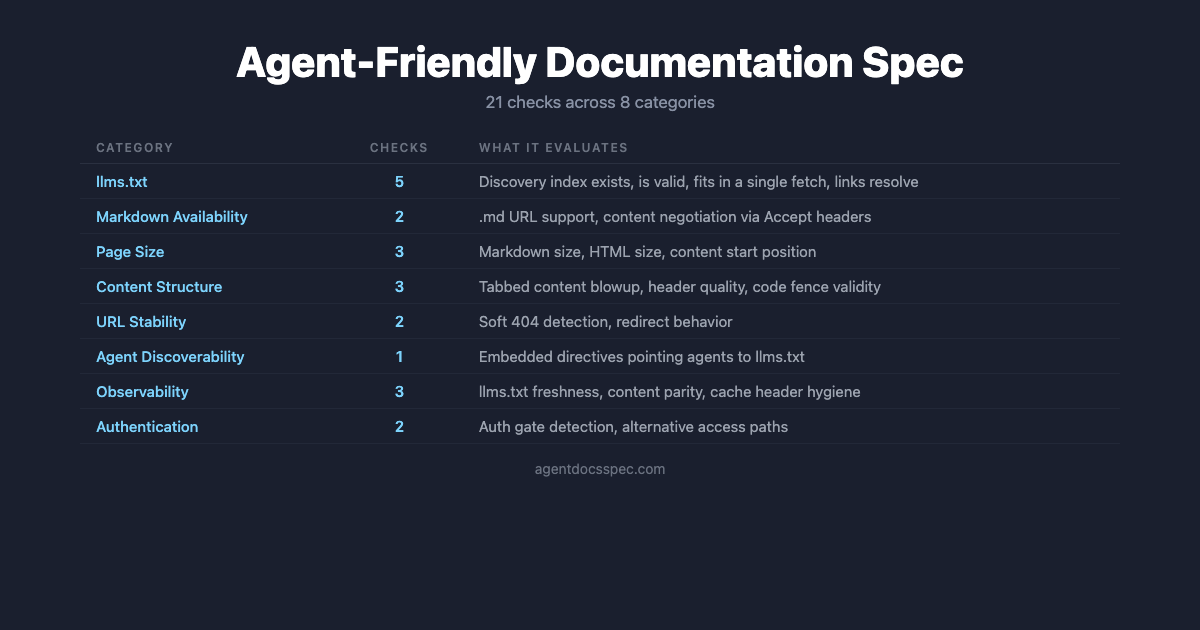
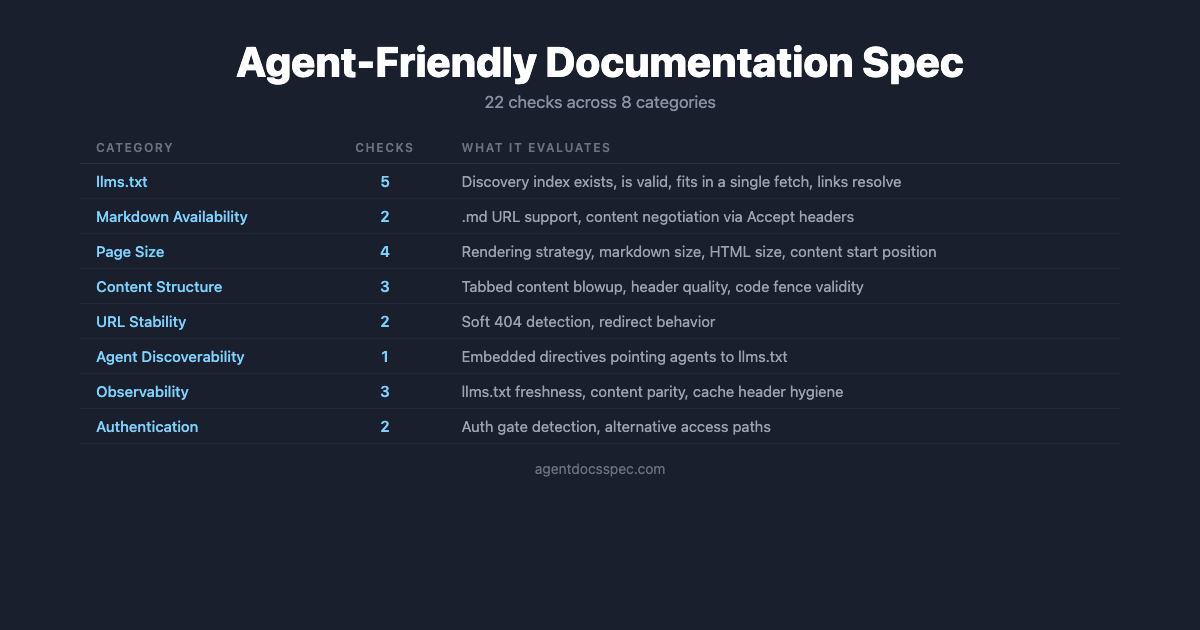
Add 'rendering-strategy' check to spec

diff --git a/site/sharing-image.html b/site/sharing-image.html
@@ -74,7 +74,7 @@
 </head>
 <body>
   <h1>Agent-Friendly Documentation Spec</h1>
-  <p class="subtitle">21 checks across 8 categories</p>
+  <p class="subtitle">22 checks across 8 categories</p>
   <div class="table-wrap">
     <table>
       <thead>
@@ -97,8 +97,8 @@
         </tr>
         <tr>
           <td>Page Size</td>
-          <td>3</td>
-          <td>Markdown size, HTML size, content start position</td>
+          <td>4</td>
+          <td>Rendering strategy, markdown size, HTML size, content start position</td>
         </tr>
         <tr>
           <td>Content Structure</td>

diff --git a/SPEC.md b/SPEC.md
@@ -3,8 +3,8 @@
 |              |                                                              |
 |--------------|--------------------------------------------------------------|
 | **Status**   | Draft                                                        |
-| **Version**  | 0.1.0                                                        |
-| **Date**     | 2026-02-22                                                   |
+| **Version**  | 0.2.0                                                        |
+| **Date**     | 2026-03-15                                                   |
 | **Author**   | Dachary Carey + community contributors                       |
 | **URL**      | https://agentdocsspec.com                                    |
 | **Repository** | https://github.com/agent-ecosystem/agent-docs-spec                |
@@ -15,7 +15,7 @@ Documentation sites are increasingly consumed by coding agents rather than
 human readers, but most sites are not built for this access pattern. Agents
 hit truncation limits, get walls of CSS instead of content, can't follow
 cross-host redirects, and don't know about emerging discovery mechanisms like
-`llms.txt`. This spec defines 21 checks across 8 categories that evaluate how
+`llms.txt`. This spec defines 22 checks across 8 categories that evaluate how
 well a documentation site serves agent consumers. It is grounded in empirical
 observation of real agent workflows and is intended as a shared standard for
 documentation teams, tool builders, and platform providers.
@@ -156,6 +156,9 @@ Some checks depend on the results of others:
 - `page-size-markdown` only runs if `markdown-url-support` or
   `content-negotiation` passes (the site must serve markdown for this check
   to apply).
+- `page-size-html` and `content-start-position` results should be flagged as
+  unreliable if `rendering-strategy` fails (the measurements reflect a shell,
+  not actual content).
 - `section-header-quality` is most relevant when `tabbed-content-serialization`
   detects tabbed content.
 - `markdown-code-fence-validity` only runs if `markdown-url-support` or
@@ -533,6 +536,64 @@ request it makes and the server's response:
 Because different agents hit different paths, this spec defines size checks for
 **both** the markdown response (if available) and the HTML response. A site
 that's only optimized for the markdown path is leaving most agents behind.
+
+### `rendering-strategy`
+
+- **What it checks**: Whether the HTTP response contains the page's actual
+  content, or whether content requires JavaScript execution to render
+  (client-side rendering / SPA).
+- **Why it matters**: Most coding agents fetch pages using HTTP libraries that
+  do not execute JavaScript. GitHub Copilot is the only major agent observed
+  to use headless browser rendering. When a site relies on client-side
+  rendering, agents see an empty shell containing framework boilerplate,
+  inline CSS, and navigation chrome, but none of the documentation content.
+
+  This is not a truncation problem. It is a zero-content problem. The page
+  returns HTTP 200, so the agent doesn't know anything is wrong. It attempts
+  to extract information from whatever text is in the shell (typically nav
+  links and footer text) and produces nonsensical results, or falls back on
+  training data that may be outdated.
+
+  The rendering strategy is a property of the framework configuration, not
+  the framework itself. The same framework can produce either server-rendered
+  or client-rendered output. Sites built with Next.js, Gatsby, and Nuxt
+  appear on both sides: react.dev (Next.js) and docs.github.com (Next.js)
+  are fully agent-accessible, while other sites using the same frameworks
+  deliver empty shells. Text-to-HTML ratio alone is not a reliable signal;
+  GitHub docs and Stripe docs have low ratios due to heavy bundled assets
+  but contain real page content. The distinction is whether page-specific
+  content is present in the response.
+
+  A subtler variant exists where a page is statically generated but a
+  specific component defers content rendering to JavaScript based on user
+  selections (e.g., query parameters choosing a language or deployment type).
+  The static HTML contains the page structure (title, navigation, selector
+  UI) but none of the substantive content. From an agent's perspective, the
+  effect is the same as a full SPA shell.
+
+- **Result levels**:
+  - **Pass**: HTTP response contains substantive page content. Detected by
+    the presence of multiple page-specific headings, paragraphs with prose
+    content, or other content elements beyond navigation chrome.
+  - **Warn**: HTTP response contains some content but appears sparse relative
+    to the page's apparent scope. This covers client-side content population
+    (statically generated pages where a component defers content to
+    JavaScript), partial hydration or lazy loading, and legitimately minimal
+    pages.
+  - **Fail**: HTTP response is an SPA shell. Detected by the combination of
+    known framework markers (e.g., `id="___gatsby"`, `id="__next"`,
+    `id="__nuxt"`, `id="root"`), minimal visible text content, and absence
+    of page-specific content elements.
+- **Automation**: Heuristic. Combine framework marker detection with content
+  signal analysis (headings, paragraphs, code blocks after stripping
+  `<script>`, `<style>`, and `<noscript>` elements). Framework markers alone
+  are not conclusive since SSR sites share the same markers.
+- **Notes**: If this check fails, size-related checks (`page-size-html`,
+  `content-start-position`) still run but their results should be
+  interpreted with caution, since they are measuring a shell rather than
+  actual content. If the site passes `markdown-url-support` or
+  `content-negotiation`, that provides partial mitigation: agents that
+  request markdown may still get content even when the HTML path is broken.
 
 ### `page-size-markdown`
 
@@ -1048,6 +1109,7 @@ a first-class agent experience with their private documentation.
 | `llms-txt-links-markdown` | llms.txt | Full | Medium | `llms-txt-exists` |
 | `markdown-url-support` | Markdown Availability | Full | High | -- |
 | `content-negotiation` | Markdown Availability | Full | Medium | -- |
+| `rendering-strategy` | Page Size | Heuristic | High | -- |
 | `page-size-markdown` | Page Size | Full | High | `markdown-url-support` or `content-negotiation` |
 | `page-size-html` | Page Size | Full | High | -- |
 | `content-start-position` | Page Size | Heuristic | High | -- |
@@ -1196,6 +1258,14 @@ welcome.
 - [OtterlyAI, "llms.txt and AI Visibility: Results from OtterlyAI's GEO Study"](https://otterly.ai/blog/the-llms-txt-experiment/)
 
 ## Changelog
+
+### v0.2.0 (2026-03-15)
+
+- New check: `rendering-strategy` (Category 3). Detects pages that rely on
+  client-side JavaScript to render content, which makes them invisible to
+  most coding agents. Covers full SPA shells and the subtler case of
+  statically generated pages with client-side content population.
+- Check count: 21 → 22.
 
 ### v0.1.0 (2026-02-22) - Initial Draft
 

diff --git a/README.md b/README.md
@@ -5,7 +5,7 @@ docs agent-friendly. The spec focuses on meeting the technical constraints of
 agent platforms (truncation limits, content negotiation, discovery); it does not
 consider qualitative evaluation of content.
 
-**Status**: Draft (v0.1.0)
+**Status**: Draft (v0.2.0)
 
 **Full spec**: [SPEC.md](SPEC.md) | **Website**: [agentdocsspec.com](https://agentdocsspec.com)
 
@@ -29,13 +29,13 @@ fall back on training data, or silently work with partial information.
 
 ## What the Spec Covers
 
-The spec defines **21 checks across 8 categories**:
+The spec defines **22 checks across 8 categories**:
 
 | Category | Checks | What it evaluates |
 |----------|--------|-------------------|
 | llms.txt | 5 | Discovery index exists, is valid, fits in a single fetch, links resolve, links point to markdown |
 | Markdown Availability | 2 | `.md` URL support, content negotiation via Accept headers |
-| Page Size | 3 | Markdown size, HTML size (pre/post conversion), content start position |
+| Page Size | 4 | Rendering strategy (SPA/CSR detection), markdown size, HTML size (pre/post conversion), content start position |
 | Content Structure | 3 | Tabbed content serialization blowup, section header quality, code fence validity |
 | URL Stability | 2 | Soft 404 detection, redirect behavior |
 | Agent Discoverability | 1 | Embedded directives pointing agents to `llms.txt` |

diff --git a/site/content/_index.md b/site/content/_index.md
@@ -12,14 +12,14 @@ about emerging discovery mechanisms like `llms.txt`.
 The result: agents frequently fail to get the documentation they need, fall
 back on training data, or silently work with partial information.
 
-This spec defines **21 checks across 8 categories** that evaluate how well a
+This spec defines **22 checks across 8 categories** that evaluate how well a
 documentation site serves agent consumers.
 
 | Category | Checks | What it evaluates |
 |----------|--------|-------------------|
 | llms.txt | 5 | Discovery index exists, is valid, fits in a single fetch, links resolve, links point to markdown |
 | Markdown Availability | 2 | `.md` URL support, content negotiation via Accept headers |
-| Page Size | 3 | Markdown size, HTML size (pre/post conversion), content start position |
+| Page Size | 4 | Rendering strategy (SPA/CSR detection), markdown size, HTML size (pre/post conversion), content start position |
 | Content Structure | 3 | Tabbed content serialization blowup, section header quality, code fence validity |
 | URL Stability | 2 | Soft 404 detection, redirect behavior |
 | Agent Discoverability | 1 | Embedded directives pointing agents to `llms.txt` |
